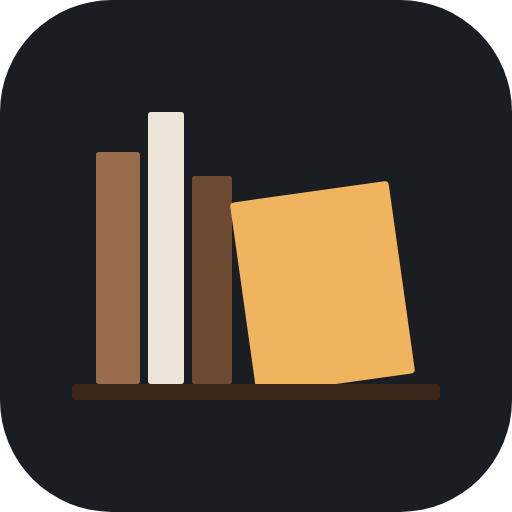
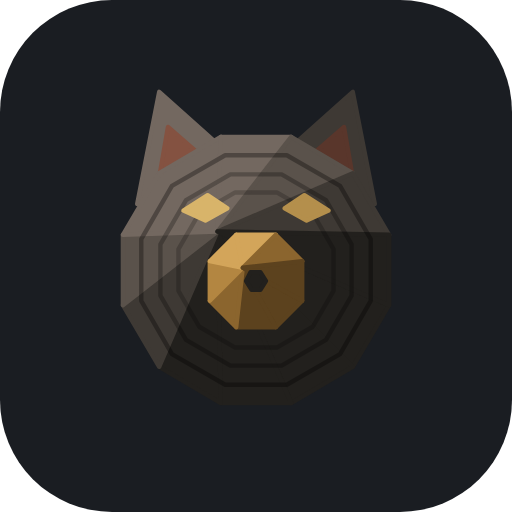
Kona (snapshot)

diff --git a/web/src/header-icons.ts b/web/src/header-icons.ts
@@ -1,0 +1,107 @@
+// 上の帯のボタンの絵。部屋の小物（items/）と同じ道具で、平らな多角形を濃淡 4 段で塗る。光は左上から。
+// 字は置かない（読み上げと、触れたときの名前は aria-label / title に持たせる）。どれも 32×32 の中に描く。
+import { poly, puff, slab, bevel, ngon, tone, WOOD, SAGE, OCHRE, ROSE, BRASS, INK, type Pt } from "./items/lowpoly";
+
+const PAPER = tone("#d9c8a4"), TERRA = tone("#a5523c"), GLASS = tone("#3f5c6c"), SKY = tone("#6f8fa0");
+
+/** ホーム: 切妻の小さな家。窓に灯り */
+const home = () => `
+  ${slab(PAPER.mid, PAPER.lo, [7, 15, 25, 28])}
+  ${poly(PAPER.deep, [[7, 15], [25, 15], [25, 17], [7, 17]])}
+  ${poly(TERRA.hi, [[16, 4], [3, 16], [16, 16]])}${poly(TERRA.lo, [[16, 4], [16, 16], [29, 16]])}
+  ${poly(TERRA.deep, [[3, 16], [29, 16], [28, 17.5], [4, 17.5]])}
+  ${slab(WOOD.mid, WOOD.lo, [17.5, 20, 22, 28])}
+  ${slab(OCHRE.hi, OCHRE.mid, [10, 20, 14.5, 24])}
+  ${poly(PAPER.deep, [[5, 28], [27, 28], [27, 29.5], [5, 29.5]])}`;
+
+/** ライブラリ: 板の上に背表紙が 3 冊、1 冊は寄りかかる */
+const library = () => `
+  ${slab(SAGE.hi, SAGE.lo, [5, 9, 10, 27])}${poly(SAGE.deep, [[5, 9], [10, 9], [10, 10.5], [5, 10.5]])}
+  ${slab(OCHRE.hi, OCHRE.lo, [10.5, 5, 15.5, 27])}
+  ${poly(BRASS.deep, [[10.5, 9], [15.5, 9], [15.5, 10.2], [10.5, 10.2]])}${poly(BRASS.deep, [[10.5, 21.5], [15.5, 21.5], [15.5, 22.7], [10.5, 22.7]])}
+  ${poly(ROSE.hi, [[16, 27], [22.5, 7.5], [26.5, 9]])}${poly(ROSE.lo, [[16, 27], [26.5, 9], [21, 27]])}
+  ${poly(ROSE.deep, [[22.5, 7.5], [26.5, 9], [26.2, 10], [22.2, 8.6]])}
+  ${slab(WOOD.hi, WOOD.lo, [3, 27, 29, 30])}`;
+
+/** 設定: 真鍮のつまみ。目盛りの点と、向きの線 */
+const settings = () => {
+  const ticks = ngon(16, 16, 14, 8, -Math.PI / 2).map(([x, y]) => poly(BRASS.lo, ngon(x, y, 1.1, 4) as Pt[])).join("");
+  return `${ticks}
+  ${puff(BRASS, ngon(16, 16, 11, 8, Math.PI / 8), [13.5, 13.5])}
+  ${puff(INK, ngon(16, 16, 6, 8, Math.PI / 8), [15, 15])}
+  ${poly(INK.deep, [[15, 5.5], [17, 5.5], [16.8, 10.5], [15.2, 10.5]])}`;
+};
+
+/** 写真を撮る: 黒い箱に真鍮のレンズ */
+const photo = () => `
+  ${poly(INK.mid, [[10, 10], [12, 6], [20, 6], [22, 10]])}${poly(INK.hi, [[12, 6], [20, 6], [19, 7.5], [13, 7.5]])}
+  ${slab(INK.hi, INK.lo, [3, 10, 29, 26])}
+  ${poly(INK.deep, [[3, 24.5], [29, 24.5], [29, 26], [3, 26]])}
+  ${slab(PAPER.hi, PAPER.mid, [23.5, 12, 27, 14.5])}${slab(ROSE.hi, ROSE.lo, [5, 7.5, 8.5, 10])}
+  ${puff(BRASS, ngon(16, 18, 7, 8, Math.PI / 8), [13.5, 15.5])}
+  ${puff(GLASS, ngon(16, 18, 4.2, 6), [14.8, 16.8])}
+  ${poly("#e8eef0", [[13.8, 16.4], [15, 15.6], [15.2, 16.6]])}`;
+
+/** 最小表示: 手のひらほどのラジオ（小さな再生の窓に畳む） */
+const mini = () => {
+  const grille = [0, 1, 2].flatMap(r => [0, 1, 2].map(c => poly(INK.lo, ngon(9 + c * 3.2, 17 + r * 3.2, 1.1, 6)))).join("");
+  return `
+  ${poly(INK.mid, [[8, 10], [21, 3.5], [21.6, 4.6], [9.6, 10]])}
+  ${slab(ROSE.hi, ROSE.lo, [3, 10, 29, 27])}
+  ${poly(ROSE.deep, [[3, 25.5], [29, 25.5], [29, 27], [3, 27]])}
+  ${slab(PAPER.hi, PAPER.lo, [5.5, 13.5, 18.5, 25])}${grille}
+  ${puff(BRASS, ngon(23.5, 19, 3.6, 8), [22.5, 18])}
+  ${slab(OCHRE.hi, OCHRE.lo, [20.5, 12.5, 26.5, 14.5])}`;
+};
+
+/** 小窓で手前に出す: 壁の窓枠の前に、小さな額がもう 1 枚 */
+const pip = () => `
+  <g transform="translate(2 4)">${bevel(22, 18, 3, WOOD)}${slab(SKY.hi, SKY.lo, [3, 3, 19, 15])}</g>
+  <g transform="translate(15 15)">${poly("rgba(0,0,0,.28)", [[1.5, 1.5], [16, 1.5], [16, 13], [1.5, 13]])}${bevel(15, 12, 2.4, BRASS)}${slab(OCHRE.hi, OCHRE.lo, [2.4, 2.4, 12.6, 9.6])}</g>`;
+
+/** 招待: 封筒に、薔薇色の封蝋 */
+const invite = () => `
+  ${slab(PAPER.hi, PAPER.mid, [3, 8, 29, 25])}
+  ${poly(PAPER.lo, [[3, 25], [13, 16], [16, 18], [19, 16], [29, 25]])}
+  ${poly(PAPER.deep, [[3, 8], [3, 25], [12, 16.5]])}${poly(PAPER.lo, [[29, 8], [29, 25], [20, 16.5]])}
+  ${poly(PAPER.hi, [[3, 8], [29, 8], [16, 18.5]])}${poly(PAPER.mid, [[3, 8], [29, 8], [28, 9], [4, 9]])}
+  ${puff(ROSE, ngon(16, 18, 3.6, 7), [15, 17])}`;
+
+/** フォルダ（読むところ）: 木箱にレコードが立っている */
+const open = () => `
+  ${slab(SAGE.hi, SAGE.lo, [6, 6, 15, 18])}
+  ${poly(INK.lo, ngon(18.5, 11, 6.5, 10))}${poly(INK.hi, [[14, 7], [18.5, 4.5], [18.5, 11]])}${poly(ROSE.mid, ngon(18.5, 11, 2, 6))}
+  ${slab(OCHRE.hi, OCHRE.lo, [20, 8, 27, 18])}
+  ${poly(WOOD.deep, [[3, 14], [29, 14], [29, 16], [3, 16]])}
+  ${slab(WOOD.hi, WOOD.mid, [3, 16, 29, 21.5])}${slab(WOOD.mid, WOOD.lo, [3, 22.5, 29, 28])}
+  ${poly(WOOD.deep, [[3, 21.5], [29, 21.5], [29, 22.5], [3, 22.5]])}
+  ${poly(WOOD.deep, [[12, 18], [20, 18], [20, 19.5], [12, 19.5]])}`;
+
+/** スマホのメニュー: 小石が 3 つ */
+const more = () => [ [6.5, OCHRE], [16, ROSE], [25.5, SAGE] ].map(([x, p]) => puff(p as typeof SAGE, ngon(x as number, 16, 4.4, 6), [(x as number) - 1, 15])).join("");
+
+/** Kona のしるし: 耳の生えたレコード。盤は黒の面、まん中の札が鼻先、真鍮の目 */
+/** Kona のしるし: 猫の耳が生えたレコード。盤は面を割った 12 角、溝が 2 本、まん中にレーベル、上に真鍮の目 */
+export const logo = () => {
+  const D = tone("#5a524b");
+  const ring = (r: number, o: number) => `<polygon points="${ngon(16, 18, r, 12, Math.PI / 12).map(p => p.map(v => v.toFixed(2)).join(",")).join(" ")}" style="fill:none;stroke:#000;stroke-opacity:${o};stroke-width:.4"/>`;
+  return `
+  ${poly(D.hi, [[5.2, 12], [7.2, 1.8], [13, 7]])}${poly(ROSE.lo, [[7.2, 9.6], [8, 5], [11, 7.6]])}
+  ${poly(D.lo, [[26.8, 12], [24.8, 1.8], [19, 7]])}${poly(ROSE.deep, [[24.8, 9.6], [24, 5], [21, 7.6]])}
+  ${puff(D, ngon(16, 18, 12.5, 12, Math.PI / 12), [12.5, 14.5])}
+  ${ring(10.8, .32)}${ring(9, .26)}${ring(7.3, .2)}
+  ${poly(BRASS.hi, [[9.4, 12.6], [11.6, 11.2], [13.4, 12.4], [11.4, 13.5]])}${poly(BRASS.mid, [[18.6, 12.4], [20.4, 11.2], [22.6, 12.6], [20.6, 13.5]])}
+  ${puff(OCHRE, ngon(16, 19, 4.6, 8, Math.PI / 8), [14.8, 17.8])}
+  ${poly(D.deep, ngon(16, 19, .9, 6))}`;
+};
+
+export const HEADER_ICON = { home, library, settings, photo, mini, pip, invite, open, more, logo };
+export type HeaderIcon = keyof typeof HEADER_ICON;
+
+export const headerIcon = (k: HeaderIcon) =>
+  `<svg class="hd-icon" viewBox="0 0 32 32" aria-hidden="true" focusable="false">${HEADER_ICON[k]()}</svg>`;
+
+/** index.html の上の帯で data-icon を持つものに絵を入れる */
+export function paintHeaderIcons(root: ParentNode = document) {
+  for (const el of root.querySelectorAll<HTMLElement>("[data-icon]")) el.innerHTML = headerIcon(el.dataset.icon as HeaderIcon);
+}

diff --git a/web/src/header.css b/web/src/header.css
@@ -14,37 +14,37 @@
 }
 body:not([data-state="ready"]) .top::before { display: none; }
 
-/* ---------- 札とボタン: 形と濃淡は ::before に持たせ、フォーカスの枠は切らない ---------- */
-.top :is(.tabs a, .win-btn, .open) { position: relative; isolation: isolate; border-radius: 0; background: none; }
-.top :is(.tabs a, .win-btn, .open)::before {
+/* ---------- ボタン: 字のない、部屋の小物と同じローポリの絵（header-icons.ts）。名前は aria-label / title ---------- */
+.hd-icon { display: block; width: 100%; height: 100%; overflow: visible; }
+.hd-icon polygon { stroke-width: .5px; stroke-linejoin: round; }
+.top .brand { width: 30px; height: 30px; flex: none; }
+.top .hd-btn {
+  position: relative; isolation: isolate; flex: none; display: grid; place-items: center;
+  width: 40px; height: 38px; padding: 6px 7px; border: 0; border-radius: 0; background: none; text-decoration: none;
+}
+.top .hd-btn .hd-icon { transition: transform .15s, opacity .15s, filter .15s; }
+/* 下に、三面の六角の台座。触れると浮かび、いまのページでは立ったまま */
+.top .hd-btn::before {
   content: ""; position: absolute; inset: 0; z-index: -1; pointer-events: none; opacity: 0; transition: opacity .15s;
-}
-/* タブ: 六角の札。上の面が明るく、下の面がやや沈む */
-.top .tabs a::before {
-  clip-path: polygon(7px 0, calc(100% - 7px) 0, 100% 50%, calc(100% - 7px) 100%, 7px 100%, 0 50%);
-  background: linear-gradient(170deg, color-mix(in srgb, var(--ink) 12%, transparent) 50%, color-mix(in srgb, var(--ink) 7%, transparent) 50%);
-}
-.top .tabs a[aria-current="page"]::before { opacity: 1; }
-.top .tabs a:hover::before { opacity: .55; }
-/* 窓のボタン（写真・最小表示・小窓）: 触れると三面の六角が浮かぶ */
-.top .win-btn::before {
-  clip-path: polygon(50% 2px, 93% 26%, 93% 74%, 50% calc(100% - 2px), 7% 74%, 7% 26%);
+  clip-path: polygon(50% 0, 96% 25%, 96% 75%, 50% 100%, 4% 75%, 4% 25%);
   background: conic-gradient(from -30deg,
-    color-mix(in srgb, var(--ink) 14%, transparent) 0 120deg,
-    color-mix(in srgb, var(--ink) 9%, transparent) 0 240deg,
-    color-mix(in srgb, var(--ink) 5%, transparent) 0);
+    color-mix(in srgb, var(--ink) 13%, transparent) 0 120deg,
+    color-mix(in srgb, var(--ink) 8%, transparent) 0 240deg,
+    color-mix(in srgb, var(--ink) 4%, transparent) 0);
 }
-.top .win-btn:hover::before { opacity: 1; }
-/* フォルダを開く・読み直す: 角を落とした板 */
-.top .open { border: 0; }
-.top button.open::before {
-  opacity: 1; clip-path: polygon(7px 0, 100% 0, 100% calc(100% - 7px), calc(100% - 7px) 100%, 0 100%, 0 7px);
-  background: linear-gradient(165deg, color-mix(in srgb, var(--ink) 11%, transparent) 50%, color-mix(in srgb, var(--ink) 6%, transparent) 50%);
-}
-.top .open:hover::before {
-  background: linear-gradient(165deg, color-mix(in srgb, var(--ink) 16%, transparent) 50%, color-mix(in srgb, var(--ink) 10%, transparent) 50%);
-}
-@media (prefers-reduced-motion: reduce) { .top :is(.tabs a, .win-btn, .open)::before { transition: none; } }
+.top .hd-btn:hover::before, .top .hd-btn:focus-visible::before { opacity: .7; }
+.top .hd-btn:hover .hd-icon { transform: translateY(-1px); }
+/* ページのタブ: いまのページ以外は少し沈める */
+.top .tabs { gap: 2px; }
+.top .tabs .hd-btn:not([aria-current="page"]) .hd-icon { opacity: .62; filter: saturate(.55); }
+.top .tabs .hd-btn:not([aria-current="page"]):hover .hd-icon { opacity: 1; filter: none; }
+.top .tabs .hd-btn[aria-current="page"]::before { opacity: 1; }
+.top .winctl { gap: 0; }
+.top #to-photo { width: 32px; height: 30px; padding: 5px; margin-left: -6px; }
+.top #to-photo .hd-icon { opacity: .7; }
+.top #to-photo:hover .hd-icon, .top #to-photo:focus-visible .hd-icon { opacity: 1; }
+.top .tabs .hd-btn[aria-current="page"] { background: none; }
+@media (prefers-reduced-motion: reduce) { .top .hd-btn::before, .top .hd-btn .hd-icon { transition: none; } }
 
 /* ---------- スマホ版の上: 帯は同じ形を細かめに、検索欄は六角の札 ---------- */
 .m-top { padding-bottom: 16px; }
@@ -54,9 +54,5 @@ body:not([data-state="ready"]) .top::before { display: none; }
   clip-path: polygon(12px 0, calc(100% - 12px) 0, 100% 50%, calc(100% - 12px) 100%, 12px 100%, 0 50%);
   background: linear-gradient(172deg, color-mix(in srgb, var(--ink) 11%, transparent) 50%, color-mix(in srgb, var(--ink) 6%, transparent) 50%);
 }
-
-/* 写真を撮る: 左の KONA のすぐ横に、小さく薄く。触れたときだけはっきり見せる */
-.top #to-photo { width: 26px; height: 26px; margin-left: -8px; opacity: .6; transition: opacity .15s; }
-.top #to-photo svg { width: 13px; height: 13px; }
-.top #to-photo:hover, .top #to-photo:focus-visible { opacity: 1; }
-.top #to-photo:hover svg, .top #to-photo:focus-visible svg { fill: var(--ink); }
+.m .m-brand { width: 28px; height: 28px; }
+.m .m-more .hd-icon { width: 26px; height: 26px; }

diff --git a/web/src/main.ts b/web/src/main.ts
@@ -33,6 +33,7 @@ import { initShelfMarks } from "./shelf-marks";
 import "./photo.css";
 import "./room-light.css";
 import "./header.css";
+import { paintHeaderIcons, headerIcon } from "./header-icons";
 import { mountThings, placedThings, toggleThing, setThing, THING_OF_MODULE } from "./room-things";
 import { roomSurface, setRoomSurface } from "./room-surface";
 import { placeObjects, legacyShown, markPlaced, objectAvailable, objectSize, OBJECTS } from "./mod-objects";
@@ -528,11 +529,13 @@ function setHidden(keys: string[], hide: boolean, undo = true) {
 }
 
 // タグやセットが変わったら: 出すアルバムを選び直して描き直す（次に再生はそのまま。セットの外のものは飛ばす）
+// セットの切り替えは、上の帯ではなくライブラリの上の段に置く（選んだセットはホームの棚にもそのまま効く）
 function renderSetTabs() {
-  const nav = $("#sets"), html = setTabsHTML();
+  const nav = document.querySelector<HTMLElement>("#view-library .lib-sets");
+  if (!nav) return;
+  const html = setTabsHTML();
   nav.innerHTML = html; nav.hidden = !html;
 }
-$("#sets").addEventListener("click", onSetTabClick);
 document.addEventListener("kona:tags", () => {
   albums = allAlbums.filter(shown);
   renderSetTabs();
@@ -600,7 +603,7 @@ function setState(state: AppState, note = "") {
   const cat = document.querySelector<HTMLElement>("#start .wake-cat") ?? wakeCatHost();
   $("#start").innerHTML = `<div class="start-inner">
     <i id="start-cat"></i>
-    <div class="start-brand">KONA</div>
+    <div class="start-brand" role="img" aria-label="Kona">${headerIcon("logo")}</div>
     ${state === "loading"
       ? `<p class="start-lead" id="start-step">読み込んでいます</p>
         <div class="start-bar indeterminate" id="start-bar" role="progressbar" aria-label="読み込みの進み具合" aria-valuemin="0" aria-valuemax="100"><i></i></div>
@@ -1475,10 +1478,12 @@ function renderLibrary() {
   if (!albums.length) { v.innerHTML = ""; return; }
   const byArtist = libGroup() === "artist", what = byArtist ? "アーティスト" : "フォルダ";
   v.innerHTML = `<div class="lib"><nav class="side" aria-label="${what}"><h2>${what}</h2></nav><div class="lib-shelves">
-    <div class="lib-bar"><div class="lib-group" role="group" aria-label="${t("括り方")}">
+    <div class="lib-bar"><nav class="sets lib-sets" aria-label="${t("アルバムのセット")}"></nav><div class="lib-group" role="group" aria-label="${t("括り方")}">
       <button data-g="folder" aria-pressed="${!byArtist}">${t("フォルダ")}</button><button data-g="artist" aria-pressed="${byArtist}">${t("アーティスト")}</button></div><input class="mod-search lib-search" id="lib-q" type="search" placeholder="検索" autocomplete="off" aria-label="ライブラリを検索" value="${esc(libQuery)}"></div>
     <div class="case"></div>${hiddenList()}</div></div>`;
   const side = $(".side", v), kase = $(".case", v);
+  $(".lib-sets", v).addEventListener("click", onSetTabClick);
+  renderSetTabs();
   $<HTMLInputElement>("#lib-q", v).oninput = e => { libQuery = (e.target as HTMLInputElement).value; keepScroll(renderLibrary); };
   v.querySelectorAll<HTMLButtonElement>(".lib-group button").forEach(b => b.onclick = () => {
     if (b.dataset.g === libGroup()) return;
@@ -1896,6 +1901,7 @@ document.addEventListener("kona:prefs", e => {
   if (keys.includes("catsHidden")) placeCats(true);
   if (keys.includes("libGroup")) { renderShelves(); if (location.hash === "#library") keepScroll(renderLibrary); renderMobile(); }
 });
+paintHeaderIcons();
 translateStatic();
 
 // ---------- ルーティング ----------

diff --git a/web/index.html b/web/index.html
@@ -13,21 +13,20 @@
 </head>
 <body data-state="start">
   <header class="top">
-    <div class="brand">KONA</div>
-    <button class="win-btn" id="to-photo" aria-label="写真を撮る" title="写真を撮る"><svg viewBox="0 0 16 16"><path fill-rule="evenodd" d="M5.6 3 6.6 1.8h2.8L10.4 3H14v10H2V3zM8 11.2a3.2 3.2 0 1 0 0-6.4 3.2 3.2 0 0 0 0 6.4zm0-1.4a1.8 1.8 0 1 1 0-3.6 1.8 1.8 0 0 1 0 3.6z"/></svg></button>
-    <span class="status" id="status"></span>
-    <nav class="sets" id="sets" aria-label="アルバムのセット" hidden></nav>
+    <div class="brand" data-icon="logo" role="img" aria-label="Kona"></div>
+    <button class="hd-btn" id="to-photo" data-icon="photo" aria-label="写真を撮る" title="写真を撮る"></button>
+    <span class="status" id="status" hidden></span>
     <nav class="tabs" aria-label="表示">
-      <a href="#home" id="tab-home">ホーム</a>
-      <a href="#library" id="tab-library">ライブラリ</a>
-      <a href="#settings" id="tab-settings">設定</a>
+      <a class="hd-btn" href="#home" id="tab-home" data-icon="home" aria-label="ホーム" title="ホーム"></a>
+      <a class="hd-btn" href="#library" id="tab-library" data-icon="library" aria-label="ライブラリ" title="ライブラリ"></a>
+      <a class="hd-btn" href="#settings" id="tab-settings" data-icon="settings" aria-label="設定" title="設定"></a>
     </nav>
     <div class="winctl" aria-label="ウィンドウ">
-      <button class="win-btn" id="to-mini" aria-label="最小表示" title="最小表示"><svg viewBox="0 0 16 16"><path d="M2 9h12v4H2z"/><path d="M2 3h12v1.5H2z" opacity=".45"/></svg></button>
-      <button class="win-btn" id="to-pip" aria-label="小窓で手前に出す" title="小窓で手前に出す" hidden><svg viewBox="0 0 16 16"><path d="M1.5 2.5h13v11h-13zM3 4v8h10V4z"/><path d="M8 8h4.5v4H8z"/></svg></button>
+      <button class="hd-btn" id="to-mini" data-icon="mini" aria-label="最小表示" title="最小表示"></button>
+      <button class="hd-btn" id="to-pip" data-icon="pip" aria-label="小窓で手前に出す" title="小窓で手前に出す" hidden></button>
     </div>
-    <button class="open" id="invite" title="リスニングパーティー: 流している音をいっしょに聴く" hidden>招待</button>
-    <button class="open" id="open" aria-haspopup="menu">フォルダ</button>
+    <button class="hd-btn" id="invite" data-icon="invite" aria-label="招待" title="リスニングパーティー: 流している音をいっしょに聴く" hidden></button>
+    <button class="hd-btn" id="open" data-icon="open" aria-label="フォルダ" title="フォルダ" aria-haspopup="menu"></button>
     <input type="file" id="picker" webkitdirectory multiple hidden>
   </header>
   <section class="start" id="start" aria-live="polite"></section>

diff --git a/web/src/mobile.ts b/web/src/mobile.ts
@@ -5,6 +5,7 @@
 import { tagsOf, setTabsHTML, onSetTabClick } from "./tags";
 import "./mobile.css";
 import "./header.css";
+import { headerIcon } from "./header-icons";
 import { openParty, partySupported } from "./party";
 import { type Album, enrichTracks } from "./library";
 import type { Player } from "./player";
@@ -43,7 +44,6 @@ const ICON = {
   close: '<svg viewBox="0 0 16 16"><path d="M3.5 2.1 8 6.6l4.5-4.5 1.4 1.4L9.4 8l4.5 4.5-1.4 1.4L8 9.4l-4.5 4.5-1.4-1.4L6.6 8 2.1 3.5z"/></svg>',
   down: '<svg viewBox="0 0 16 16"><path d="M2.6 5.2 8 10.6l5.4-5.4 1.2 1.2L8 13 1.4 6.4z"/></svg>',
   search: '<svg viewBox="0 0 16 16"><path d="M6.8 1.5a5.3 5.3 0 0 1 4.2 8.5l3.6 3.6-1.1 1.1-3.6-3.6A5.3 5.3 0 1 1 6.8 1.5zm0 1.5a3.8 3.8 0 1 0 0 7.6 3.8 3.8 0 0 0 0-7.6z"/></svg>',
-  more: '<svg viewBox="0 0 16 16"><circle cx="3" cy="8" r="1.5"/><circle cx="8" cy="8" r="1.5"/><circle cx="13" cy="8" r="1.5"/></svg>',
   queue: '<svg viewBox="0 0 16 16"><path d="M2 3h9v1.5H2zM2 7h9v1.5H2zM2 11h6v1.5H2zM12 9v3H9v1.5h3v3h1.5v-3h3V12h-3V9z"/></svg>',
   unqueue: '<svg viewBox="0 0 16 16"><path d="M2 3h9v1.5H2zM2 7h9v1.5H2zM2 11h6v1.5H2zM9.4 10.1l1-1 1.8 1.8 1.8-1.8 1 1-1.8 1.8 1.8 1.8-1 1-1.8-1.8-1.8 1.8-1-1 1.8-1.8z"/></svg>',
 };
@@ -78,9 +78,9 @@ export function initMobile(c: MobileCtx, modeChanged?: () => void, opts: { force
   root.id = "m"; root.className = "m";
   root.innerHTML = `
     <header class="m-top">
-      <div class="m-brand">KONA</div>
+      <div class="m-brand" role="img" aria-label="Kona">${headerIcon("logo")}</div>
       <label class="m-search">${ICON.search}<input type="search" placeholder="アルバム・アーティストを探す" aria-label="探す" enterkeyhint="search"></label>
-      <button class="m-icon m-more" aria-label="メニュー">${ICON.more}</button>
+      <button class="m-icon m-more" aria-label="メニュー">${headerIcon("more")}</button>
     </header>
     <nav class="m-sets sets" id="m-sets" aria-label="アルバムのセット" hidden></nav>
     <div class="m-shelves" id="m-shelves"></div>

diff --git a/web/src/tags.css b/web/src/tags.css
@@ -1,11 +1,13 @@
 /* タグとアルバムのセット（tags.ts）: 上の帯のセットのタブ・タグをつけるパネル・フォルダの箱と曲目パネルのタグの札 */
 
-/* ---------- 上の帯のセットのタブ: ページのタブより小さく、細い六角の札。選んだものだけ面が立つ ---------- */
+/* ---------- セットのタブ（ライブラリの上の段とスマホ）: ページのタブより小さく、細い六角の札。選んだものだけ面が立つ ---------- */
 .sets { display: flex; gap: 2px; min-width: 0; overflow-x: auto; scrollbar-width: none; }
 .sets::-webkit-scrollbar { display: none; }
 .sets[hidden] { display: none; }
-.top .sets { margin-left: auto; }
-.top .sets:not([hidden]) + .tabs { margin-left: 8px; padding-left: 10px; border-left: 1px solid var(--line); }
+/* ライブラリの上の段: 括り方のすぐ右に置き、検索は右端のまま */
+.lib-bar .lib-group { margin-right: 0; }
+.lib-bar .lib-sets { order: 1; }
+.lib-bar .lib-search { order: 2; margin-left: auto; }
 .sets button {
   position: relative; isolation: isolate; flex: none; white-space: nowrap;
   font-size: 12px; color: var(--muted); padding: 4px 9px;

diff --git a/web/src/style.css b/web/src/style.css
@@ -294,7 +294,7 @@ body[data-state="start"] .start, body[data-state="loading"] .start {
 body:not([data-state="ready"]) .top > :not(.brand), body:not([data-state="ready"]) main, body:not([data-state="ready"]) .np-footer { display: none; }
 body:not([data-state="ready"]) .top .brand { visibility: hidden; }
 .start-inner { display: grid; gap: 14px; justify-items: center; text-align: center; max-width: 30em; }
-.start-brand { font-weight: 700; letter-spacing: .5em; font-size: 22px; margin-right: -.5em; }
+.start-brand { width: 72px; height: 72px; }
 .start-lead { margin: 0; font-size: 16px; text-wrap: balance; }
 .start-actions { display: flex; flex-wrap: wrap; gap: 8px; justify-content: center; margin-block: 6px; }
 .start-note { margin: 0; color: var(--muted); font-size: 12px; text-wrap: balance; }
